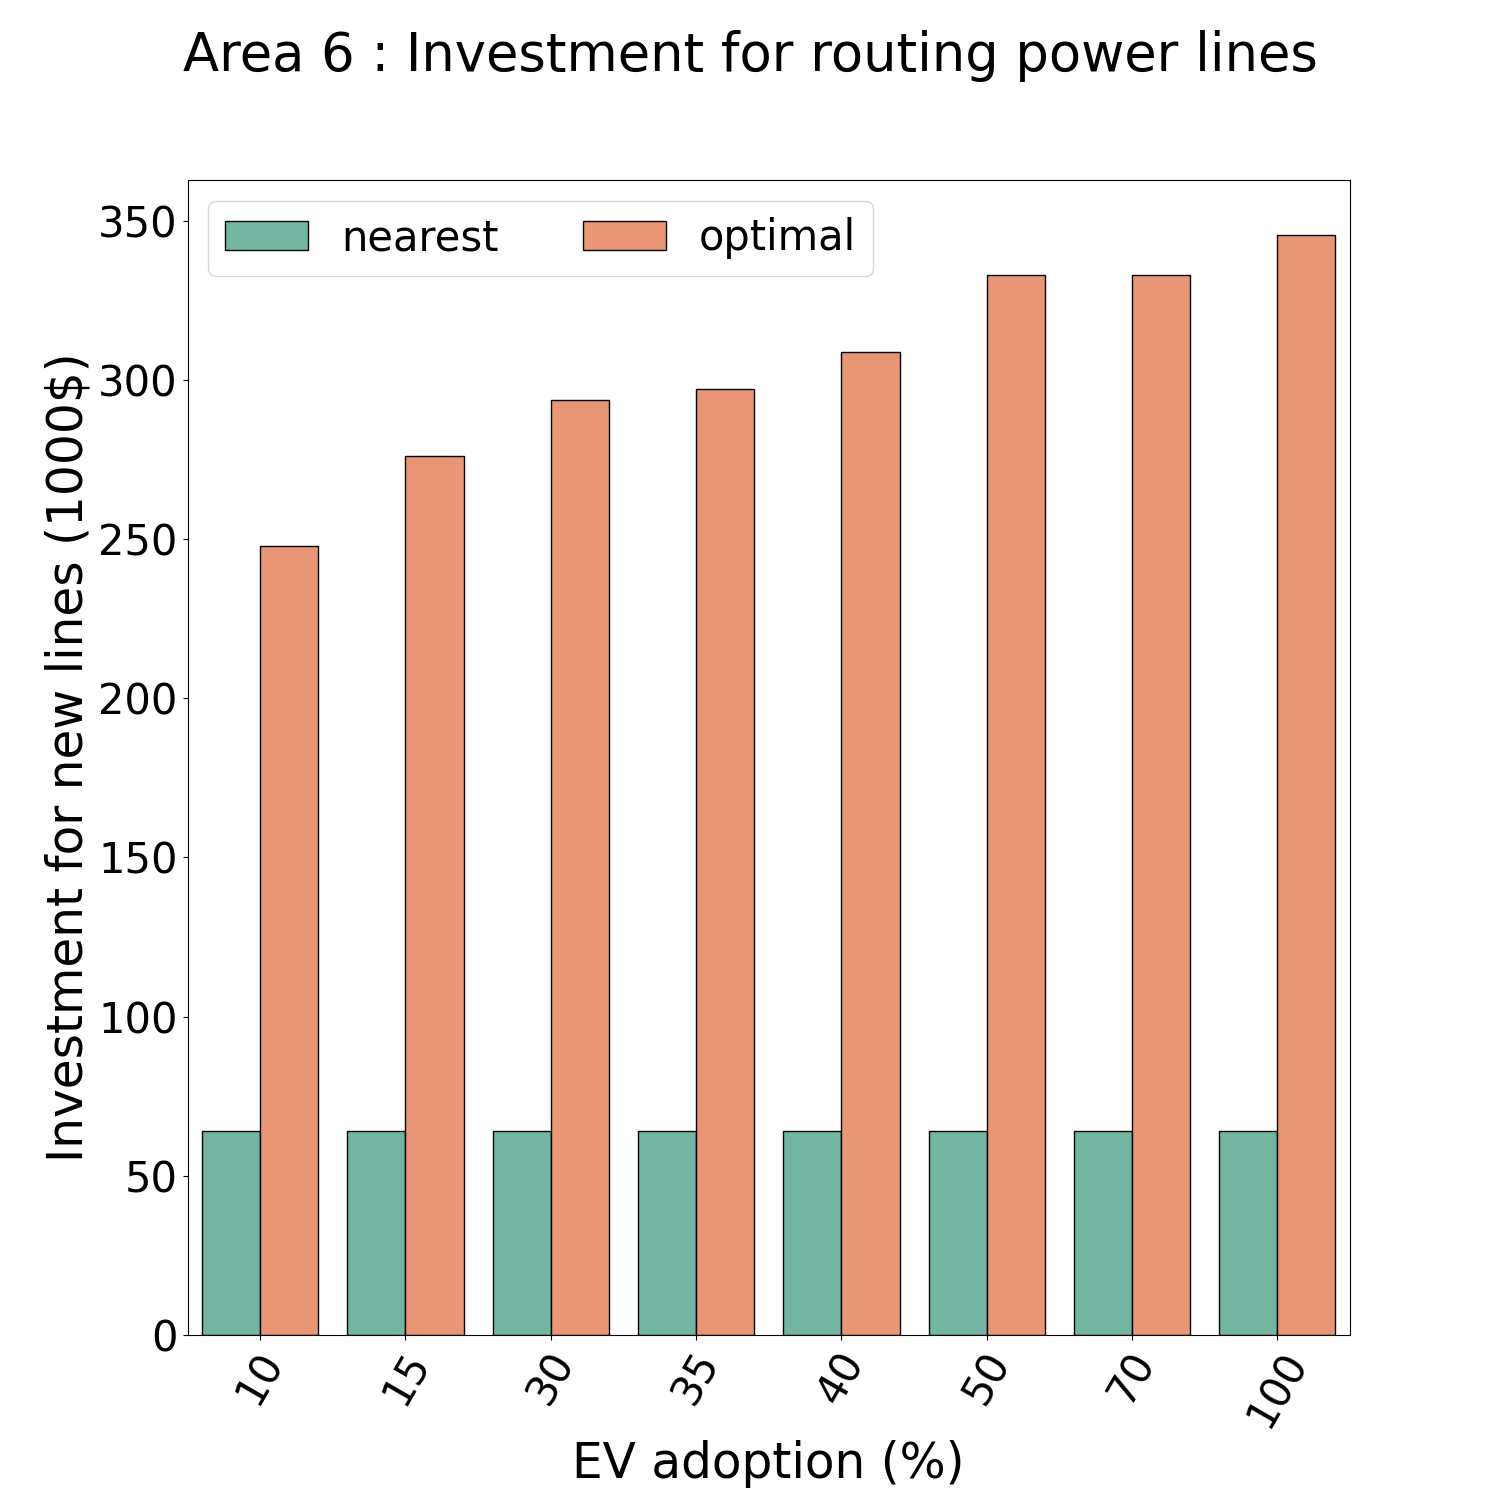
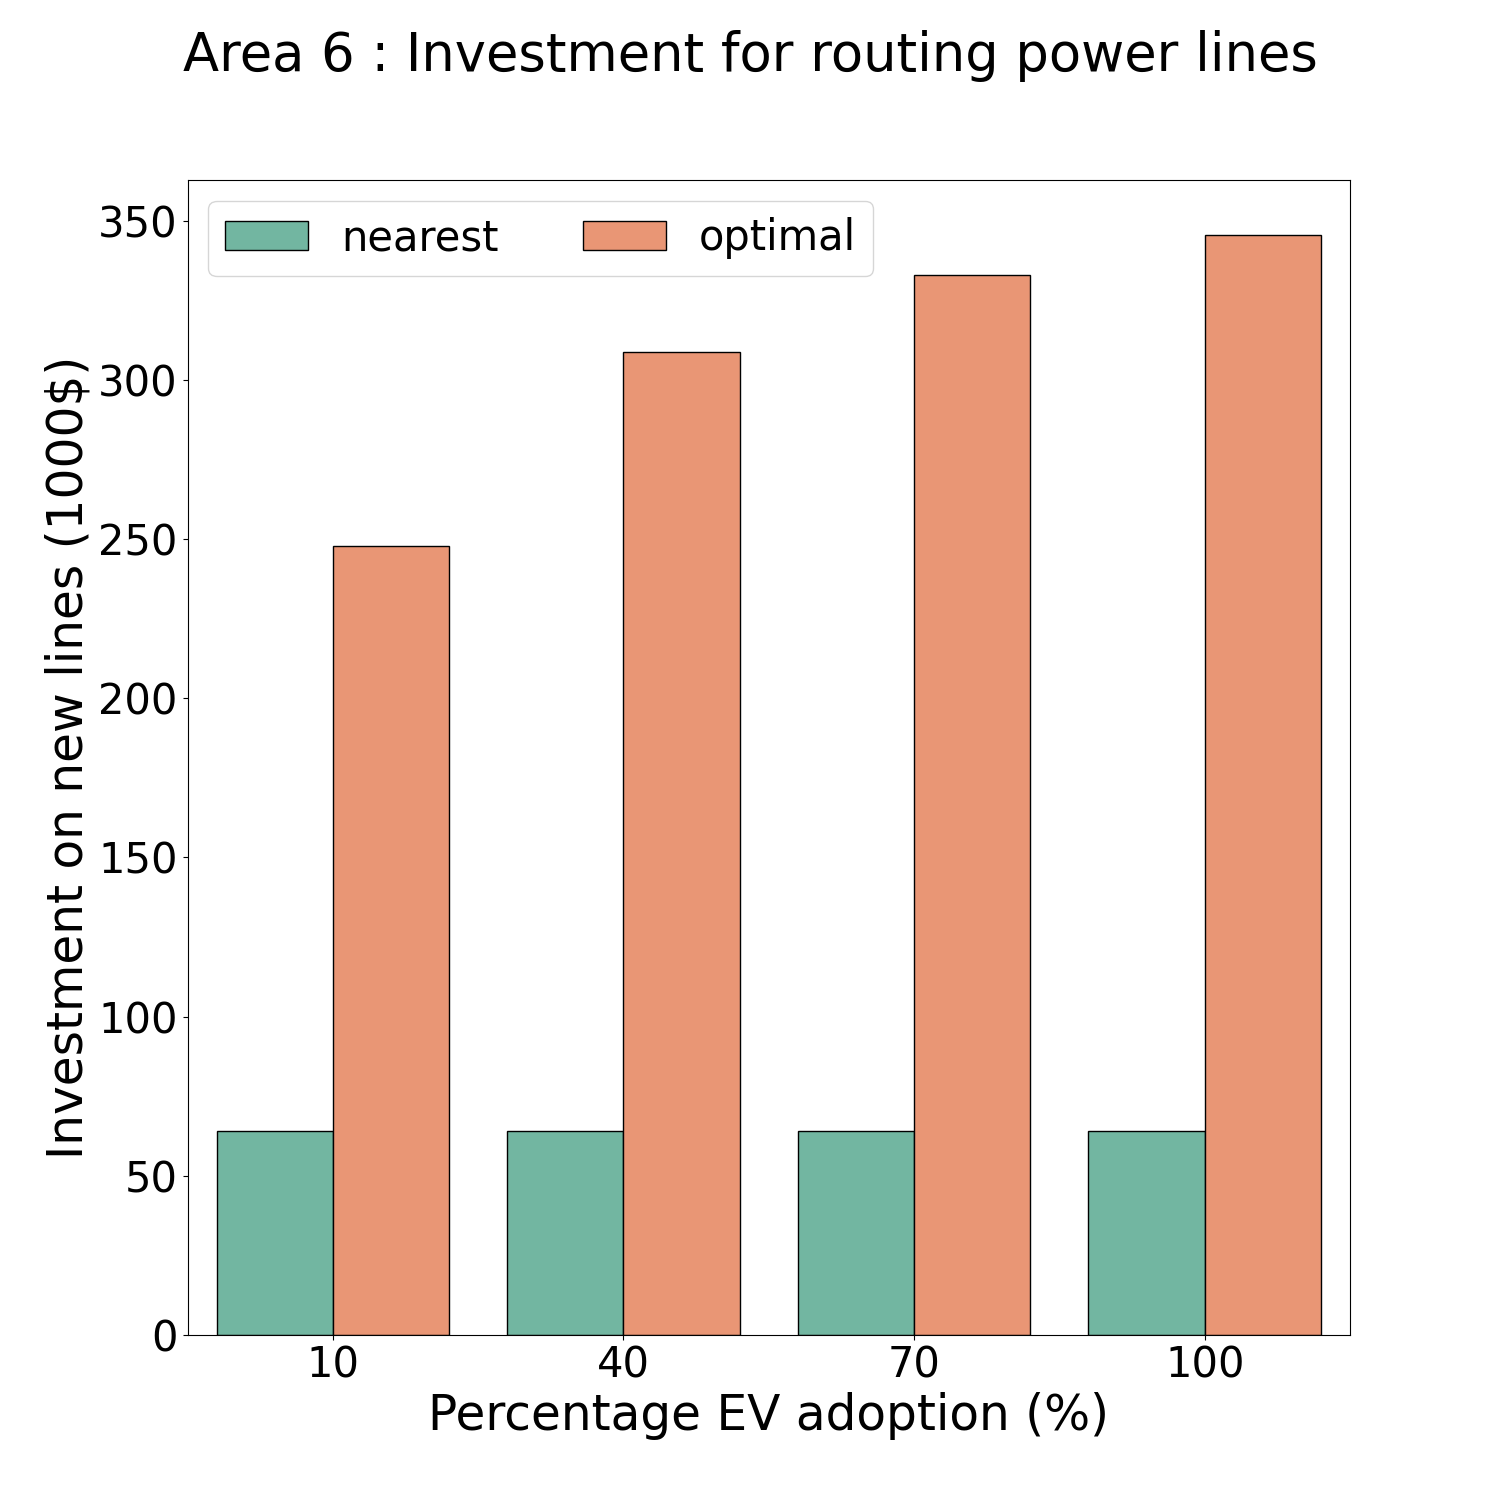
updated figs

Changed region(s): [[0.1227, 0.1533, 0.8893, 1.0], [0.0307, 0.2147, 0.0613, 0.7973]]

diff --git a/pyEVCSlib.py b/pyEVCSlib.py
@@ -344,41 +344,6 @@ class EVCSFixture(unittest.TestCase):
         powerflow(net)
         return
     
-    # def plot_voltage(self,net,ax):
-    #     color_ = {"E":"blue", "P":"black", "S":"red", "L":"peru"}
-    #     v_nodes = {n:net.nodes[n]["voltage"] for n in net}
-    #     for edge in net.edges:
-    #         ax.plot([d_nodes[edge[0]],d_nodes[edge[1]]],
-    #                   [v_nodes[edge[0]],v_nodes[edge[1]]],
-    #                   color=color_[net.edges[edge]["label"]])
-    
-    
-    # def plot_voltage_comparison(
-    #         self, net, demand,
-    #         ax=None, to_file=None, show=True,
-    #         **kwargs
-    #         ):
-        
-    #     # ---- Arguments ----
-    #     fontsize = kwargs.get('fontsize', 25)
-    #     do_return = kwargs.get('do_return', False)
-    #     figsize = kwargs.get('figsize', (20, 10))
-    #     fig, axs, no_ax = get_fig_from_ax(ax, figsize, ndim=(1, 2))
-
-    #     # ---- PLOT ----
-    #     compute_powerflow(net)
-        
-    #     # ---- Save plot figure ----
-    #     if no_ax:
-    #         to_file = f"{self.fig_dir}/{to_file}.png"
-    #         if kwargs.get('suptitle_sfx'):
-    #             suptitle = f"{kwargs.get('suptitle_sfx')}"
-    #             fig.suptitle(suptitle,fontsize=fontsize)
-    #         close_fig(fig, to_file, show, bbox_inches='tight')
-
-    #     if do_return:
-    #         return fig, axs
-    #     pass
     
     def plot_synth_net(
             self, synth_net, area=None,
@@ -458,11 +423,13 @@ class EVCSFixture(unittest.TestCase):
     def plot_investment(
             self, csv_file = None, df_data=None, area=None,
             ax=None, to_file=None, show=True,
+            adoptions=None,
             **kwargs
             ):
         kwargs.setdefault('figsize', (15, 15))
         fontsize = kwargs.get('fontsize', 30)
         do_return = kwargs.get('do_return', False)
+        label_rotation = kwargs.get('label_rotation', 0)
         if not area:
             area = self.area
             
@@ -475,18 +442,22 @@ class EVCSFixture(unittest.TestCase):
         # investment computation
         cost = 180 / 1609.34
         df_data['cost'] = df_data['length'].apply(lambda x: x*cost)
-
         df_data['adoption'] = df_data['rating'].apply(lambda x: adoption[x])
+
+        if not adoptions:
+            adoptions = df_data.adoption.unique()
+        else:
+            df_data = df_data.loc[df_data["adoption"].isin(adoptions)]
 
         sns.barplot(df_data, x="adoption", y="cost", hue="connection",
                     ax=ax, palette=sns.color_palette("Set2"), 
                     edgecolor="k", ci=None)
         
         
-        ax.set_xlabel("EV adoption (%)", fontsize=fontsize)
-        ax.set_ylabel("Investment for new lines (1000$)", fontsize=fontsize)
+        ax.set_xlabel("Percentage EV adoption (%)", fontsize=fontsize)
+        ax.set_ylabel("Investment on new lines (1000$)", fontsize=fontsize)
         ax.tick_params(axis='y',labelsize=30)
-        ax.tick_params(axis='x',labelsize=30,rotation=60)
+        ax.tick_params(axis='x',labelsize=30,rotation=label_rotation)
         
         ax.legend(prop={'size': 30},loc='upper left',ncol=2)
         
@@ -513,12 +484,14 @@ class EVCSFixture(unittest.TestCase):
     def plot_improvement(
             self, csv_file = None, df_data=None, area=None,
             ax=None, to_file=None, show=True,
+            adoptions=None,
             **kwargs
             ):
         
         kwargs.setdefault('figsize', (15, 15))
         fontsize = kwargs.get('fontsize', 30)
         do_return = kwargs.get('do_return', False)
+        label_rotation = kwargs.get('label_rotation', 0)
         if not area:
             area = self.area
             
@@ -536,8 +509,11 @@ class EVCSFixture(unittest.TestCase):
         num_stack = len(groups)
         colors = sns.color_palette("Set3")[:num_stack]
         df_data['adoption'] = df_data['rating'].apply(lambda x: adoption[x])
-        adoptions = df_data.adoption.unique()
-        # ratings = df_data.rating.unique()
+        
+        if not adoptions:
+            adoptions = df_data.adoption.unique()
+        else:
+            df_data = df_data.loc[df_data["adoption"].isin(adoptions)]
 
         # ---- PLOT ----
         fig, ax, no_ax = get_fig_from_ax(ax, **kwargs)
@@ -547,10 +523,10 @@ class EVCSFixture(unittest.TestCase):
                         zorder=i, edgecolor="k", ci=None)
         
         
-        ax.set_xlabel("EV adoption (%)", fontsize=fontsize)
-        ax.set_ylabel("Nodes having low voltage (%)", fontsize=fontsize)
+        ax.set_xlabel("Percentage EV adoption (%)", fontsize=fontsize)
+        ax.set_ylabel("Percentage of nodes within voltage range (%)", fontsize=fontsize)
         ax.tick_params(axis='y',labelsize=30)
-        ax.tick_params(axis='x',labelsize=30,rotation=60)
+        ax.tick_params(axis='x',labelsize=30,rotation=label_rotation)
 
         hatches = itertools.cycle(['/', ''])
         for i, bar in enumerate(ax.patches):
@@ -589,123 +565,10 @@ class EVCSFixture(unittest.TestCase):
             return fig, ax
         pass
     
-    def plot_tradeoff1(
-            self, csv_file = None, df_data=None, area=None,
-            ax=None, to_file=None, show=True,
-            **kwargs
-            ):
-        
-        kwargs.setdefault('figsize', (32, 15))
-        fontsize = kwargs.get('fontsize', 30)
-        do_return = kwargs.get('do_return', False)
-        if not area:
-            area = self.area
-            
-        if csv_file:
-            df_data = pd.read_csv(f"{self.out_dir}/{csv_file}")
-            
-        # Filter out only data corresponding to optimal routing
-        df_data = df_data.loc[df_data["connection"]=="optimal"]
-
-        groups_string = []
-        vrange = sorted([float(x.lstrip("< ")) for x in df_data.columns if '<' in x])[::-1]
-        for k in range(len(vrange)):
-            if k != len(vrange) - 1:
-                groups_string.append(f"{vrange[k+1]:0.2f} - {vrange[k]:0.2f} pu")
-            else:
-                groups_string.append(f"< {vrange[k]:0.2f}")
-        groups = [x for x in df_data.columns if '<' in x]
-        num_stack = len(groups)
-        colors = sns.color_palette("Set3")[:num_stack]
-        ratings = df_data.rating.unique()
-
-        # ---- PLOT ----
-        fig, axs, no_ax = get_fig_from_ax(ax, ndim=(1,2), **kwargs)
-
-        # investment plots
-        cost = 180 / 1609.34
-        df_data['cost'] = df_data['length'].apply(lambda x: x*cost)
-
-        lambdas = [f"${{\\lambda=10^{{-6}}}}$", f"${{\\lambda=1}}$", f"${{\\lambda=10^{{6}}}}$"]
-
-        sns.barplot(df_data, x="rating", y="cost", hue="lambda",
-                    ax=axs[0], color="white", 
-                    edgecolor="k", ci=None)
-        
-        
-        axs[0].set_xlabel("EV adoption (%)", fontsize=fontsize)
-        axs[0].set_ylabel("Investment for new lines (1000$)", fontsize=fontsize)
-        axs[0].tick_params(axis='y',labelsize=30)
-        axs[0].tick_params(axis='x',labelsize=30,rotation=60)
-
-        hatches = itertools.cycle(['/', '*', 'o'])
-        for i, bar in enumerate(axs[0].patches):
-            if i%(len(ratings)) == 0:
-                hatch = next(hatches)
-            bar.set_hatch(hatch)
-
-        han2 = [Patch(facecolor="white",edgecolor='black',
-                      label=f"${{\\lambda=10^{{-6}}}}$",hatch='/'),
-                Patch(facecolor="white",edgecolor='black',
-                        label=f"${{\\lambda}}=1$",hatch='*'), 
-                Patch(facecolor="white",edgecolor='black',
-                        label=f"${{\\lambda=10^6}}$",hatch='o')]
-        axs[0].legend(handles=han2, prop={'size': 30}, loc='upper left', ncol=3)
-        
-        # reliability plots
-        for i,g in enumerate(groups):
-            sns.barplot(data=df_data, x="rating", y=g, hue="lambda",
-                        palette=[colors[i]], ax=axs[1],
-                        zorder=i, edgecolor="k")
-        
-        
-        axs[1].set_xlabel("EV fast charger rating (kW)", fontsize=fontsize)
-        axs[1].set_ylabel("Nodes having low voltage (%)", fontsize=fontsize)
-        axs[1].tick_params(axis='y',labelsize=30)
-        axs[1].tick_params(axis='x',labelsize=30,rotation=60)
-
-        hatches = itertools.cycle(['/', '*', 'o'])
-        for i, bar in enumerate(axs[1].patches):
-            if i%(len(ratings)) == 0:
-                hatch = next(hatches)
-            bar.set_hatch(hatch)
-
-
-        han1 = [Patch(facecolor=color, edgecolor='black', label=label) \
-                      for label, color in zip(groups_string, colors)]
-        han2 = [Patch(facecolor="white",edgecolor='black',
-                      label=f"${{\\lambda=10^{{-6}}}}$",hatch='/'),
-                Patch(facecolor="white",edgecolor='black',
-                        label=f"${{\\lambda}}=1$",hatch='*'), 
-                Patch(facecolor="white",edgecolor='black',
-                        label=f"${{\\lambda=10^6}}$",hatch='o')]
-        # leg1 = ax.legend(handles=han1,ncol=1,prop={'size': 50},loc='center right')
-        axs[1].legend(handles=han1+han2,ncol=1,prop={'size': 30},loc='upper left')
-        # ax.add_artist(leg1)
-        
-        # ---- Edit the title of the plot ----
-
-        if file_name_sfx := kwargs.get('file_name_sfx'):
-            if not to_file:
-                to_file = f"{area}"
-            to_file = f"{to_file}_{file_name_sfx}"
-
-        if no_ax:
-            to_file = f"{self.fig_dir}/{to_file}.png"
-            suptitle = f"{self.area}"
-            if suptitle_sfx := kwargs.get('suptitle_sfx'):
-                suptitle = f"{suptitle} : {suptitle_sfx}"
-
-            fig.suptitle(suptitle, fontsize=fontsize+3)
-            close_fig(fig, to_file, show)
-
-        if do_return:
-            return fig, ax
-        pass
-    
     def plot_tradeoff(
             self, csv_file = None, df_data=None, area=None,
             ax=None, to_file=None, show=True,
+            adoptions = None,
             **kwargs,
             ):
         kwargs.setdefault('figsize', (42, 15))
@@ -714,6 +577,7 @@ class EVCSFixture(unittest.TestCase):
         fontsize = kwargs.get('fontsize', 30)
         tickfontsize = kwargs.get('tick_fontsize', 30)
         do_return = kwargs.get('do_return', False)
+        label_rotation = kwargs.get('label_rotation', 0)
         if not area:
             area = self.area
             
@@ -732,8 +596,11 @@ class EVCSFixture(unittest.TestCase):
         df_data['cost'] = df_data['length'].apply(lambda x: x*cost)
         df_data['adoption'] = df_data['rating'].apply(lambda x: adoption[x])
 
-
-        adoptions = df_data.adoption.unique()
+        if not adoptions:
+            adoptions = df_data.adoption.unique()
+        else:
+            df_data = df_data.loc[df_data["adoption"].isin(adoptions)]
+        
         colors = sns.color_palette("Set2")
 
         for i,vr in enumerate(vrange):
@@ -745,17 +612,17 @@ class EVCSFixture(unittest.TestCase):
                 lw=linewidth, ms=markersize, 
                 )
             
-            axs[i].set_xlabel("Investment on additional lines (1000 $)", fontsize=fontsize)
-            axs[i].set_ylabel("Percentage of undervoltage nodes", fontsize=fontsize)
+            axs[i].set_xlabel("Investment on new lines (1000 $)", fontsize=fontsize)
+            axs[i].set_ylabel("Percentage of undervoltage nodes (%)", fontsize=fontsize)
             axs[i].set_title(f"Reliable voltage limit : {vr} p.u.", fontsize=fontsize)
             axs[i].tick_params(axis='y',labelsize=tickfontsize)
-            axs[i].tick_params(axis='x',labelsize=tickfontsize,rotation=60)
+            axs[i].tick_params(axis='x',labelsize=tickfontsize,rotation=label_rotation)
 
             axs[i].legend(handles=axs[i].get_legend().legendHandles, 
                           labels = [f"{r} %" for r in adoptions], 
-                          ncol=1,fontsize=fontsize-5,loc='upper right', 
+                          ncol=1,fontsize=fontsize,loc='upper right', 
                           markerscale=3, 
-                          title=f"% EV adoption", title_fontsize=fontsize)
+                          title=f"Percentage \n EV adoption", title_fontsize=fontsize)
         
         
         # ---- Edit the title of the plot ----
@@ -771,7 +638,7 @@ class EVCSFixture(unittest.TestCase):
             if suptitle_sfx := kwargs.get('suptitle_sfx'):
                 suptitle = f"{suptitle} : {suptitle_sfx}"
 
-            fig.suptitle(suptitle, fontsize=fontsize+3)
+            fig.suptitle(suptitle, fontsize=fontsize+8)
             close_fig(fig, to_file, show)
 
         if do_return:

diff --git a/plot-summary.py b/plot-summary.py
@@ -10,21 +10,26 @@ fx.grb_dir = "gurobi/script"
 arealist = [3, 6, 7, 9, 13, 14, 16, 17, 18, 19, 20]
 arealist = [6]
 
+adopt = [10, 40, 70, 100]
+
 for area in arealist:
     fx.area = f'Area {area}'
 
     fx.plot_investment(csv_file=f"{fx.area}_summary.csv", 
                         suptitle_sfx = "Investment for routing power lines", 
                         to_file=f"{fx.area}-investment", 
-                        show=False, fontsize=35)
+                        show=False, fontsize=35, 
+                        adoptions=adopt)
 
     fx.plot_improvement(csv_file=f"{fx.area}_summary.csv", 
                         suptitle_sfx = "Improvement in reliability", 
                         to_file=f"{fx.area}-improvement", 
-                        show=False, fontsize=35)
+                        show=False, fontsize=35, 
+                        adoptions=adopt)
 
     fx.plot_tradeoff(csv_file=f"{fx.area}_summary.csv", 
                     suptitle_sfx = "Investment to reliability trade off", 
                     to_file=f"{fx.area}-tradeoff", 
-                    show=False, fontsize=35, tick_fontsize=28, 
-                    linewidth=3, markersize=20)
+                    show=False, fontsize=37, tick_fontsize=28, 
+                    linewidth=3, markersize=20, 
+                    adoptions=adopt)
